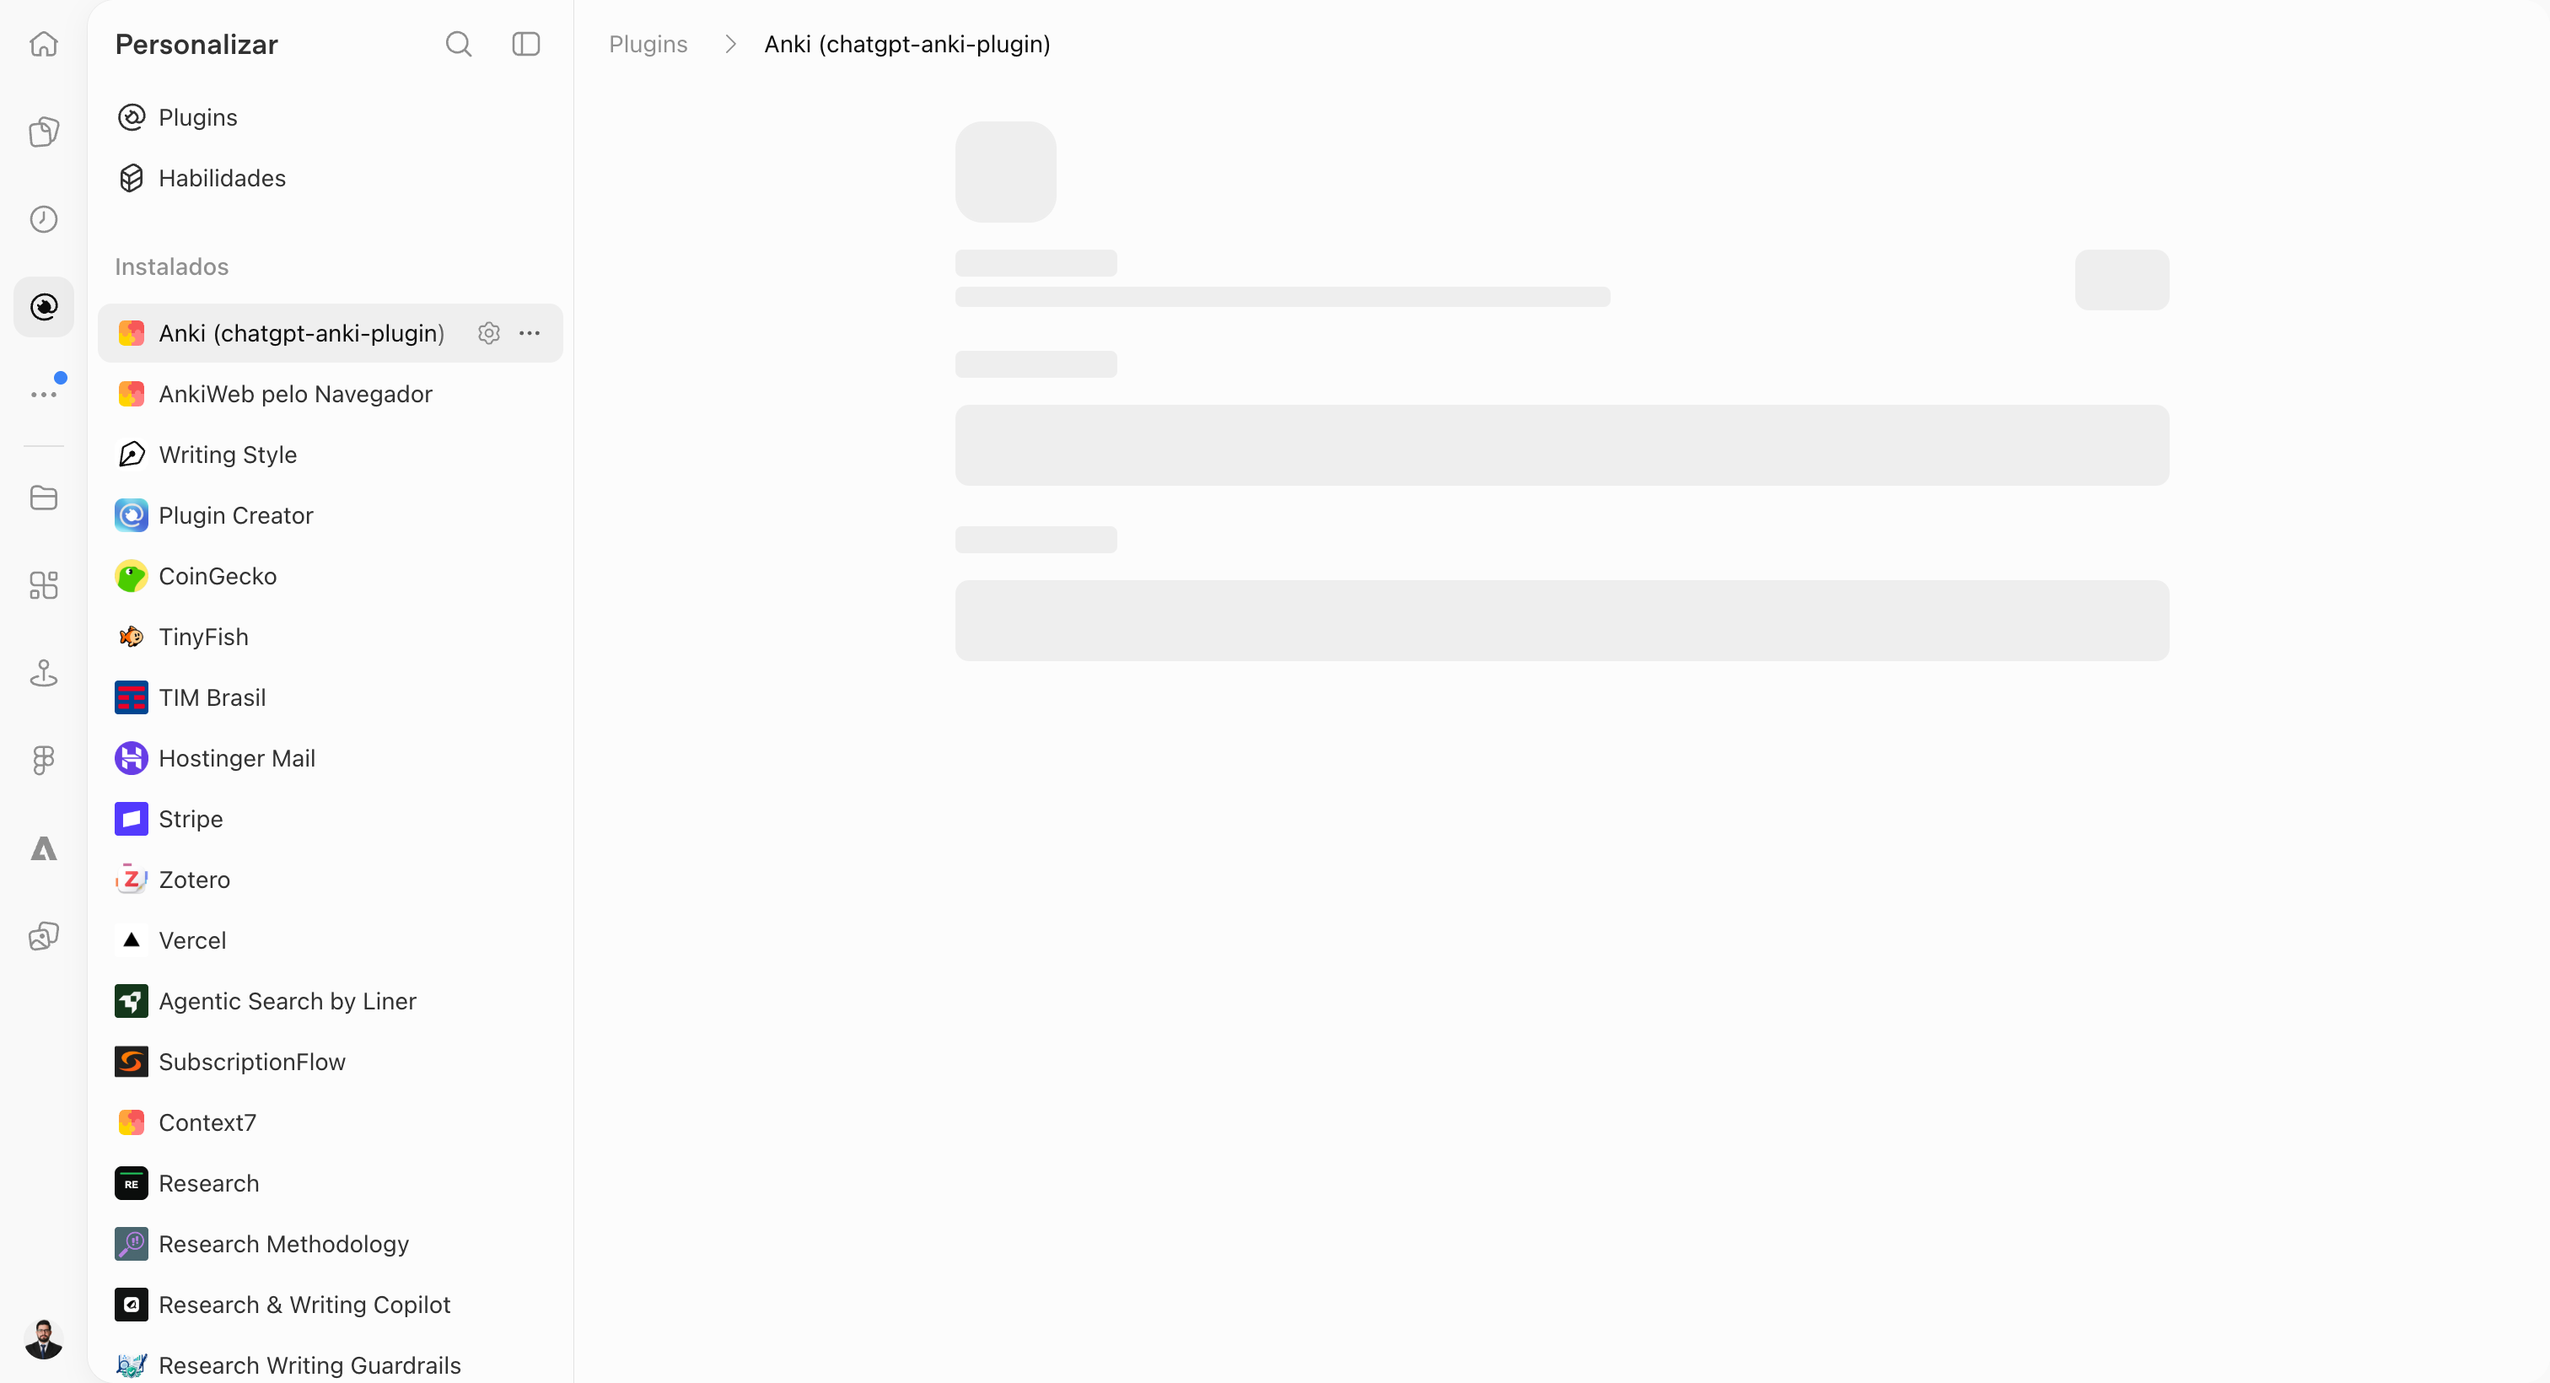
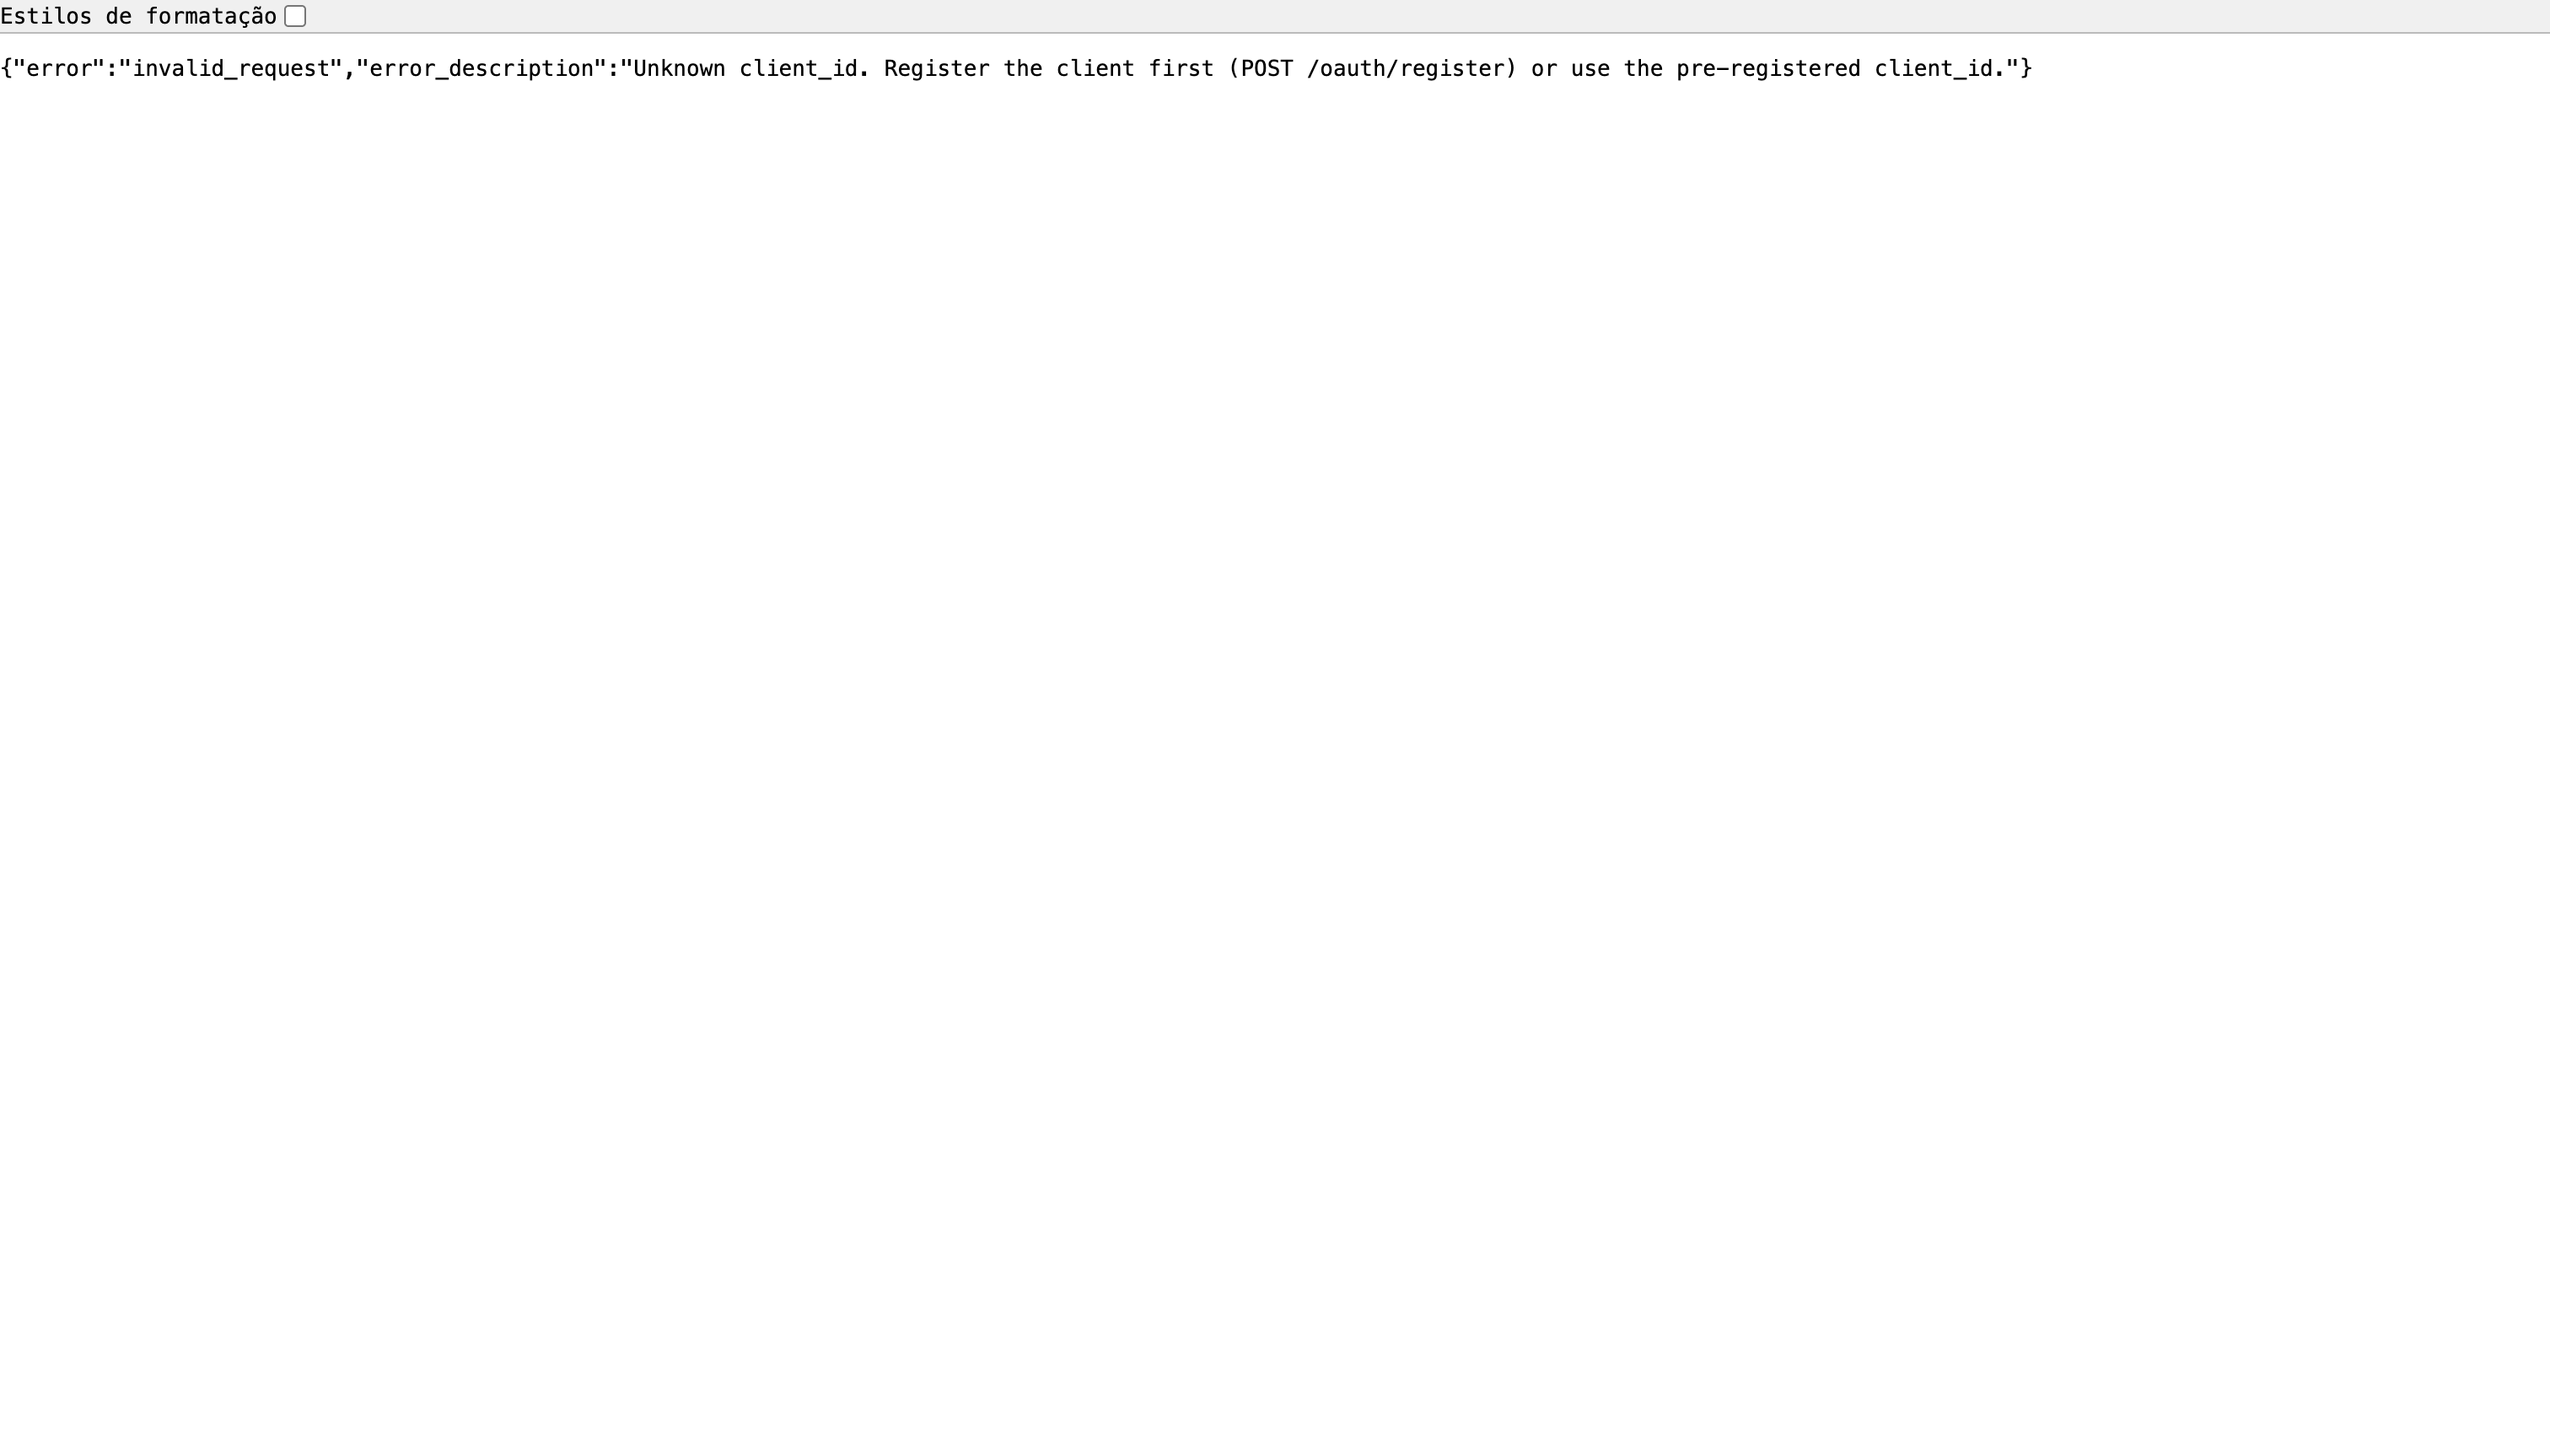
fix(oauth): legacy client-id compatibility within redirect policy; accurate consent detection

diff --git a/tests/unit/oauth.test.ts b/tests/unit/oauth.test.ts
@@ -60,12 +60,26 @@ describe('OAuthService.validateAuthorize', () => {
     if (result.ok) expect(result.scope).toEqual(['anki:read', 'anki:write', 'anki:review']);
   });
 
-  it('rejects unknown clients without a redirect target', () => {
+  it('unknown clients are only accepted within the redirect policy (legacy compat)', () => {
     const result = service().validateAuthorize(validParams(service()).params);
-    const unknown = service().validateAuthorize({ ...validParams(service()).params, client_id: 'nope' });
     expect(result.ok).toBe(true);
-    expect(unknown.ok).toBe(false);
-    if (!unknown.ok) expect(unknown.redirectUri).toBeUndefined();
+
+    // Cliente desconhecido + redirect fora da política ⇒ rejeitado, sem redirect de erro.
+    const outsidePolicy = service().validateAuthorize({
+      ...validParams(service()).params,
+      client_id: 'nope',
+      redirect_uri: 'https://evil.example.com/cb',
+    });
+    expect(outsidePolicy.ok).toBe(false);
+    if (!outsidePolicy.ok) expect(outsidePolicy.redirectUri).toBeUndefined();
+
+    // Cliente desconhecido (legado) + redirect hospedado no ChatGPT ⇒ aceito.
+    const withinPolicy = service().validateAuthorize({
+      ...validParams(service()).params,
+      client_id: 'nope',
+      redirect_uri: 'https://chatgpt.com/connector/oauth/x',
+    });
+    expect(withinPolicy.ok).toBe(true);
   });
 
   it('rejects unregistered redirect_uri', () => {
@@ -238,6 +252,28 @@ describe('OAuthService dynamic client registration', () => {
     // Segredo diferente (outra instalação) rejeita o id.
     const otherSecret = service({ signingSecret: 'another-signing-secret-0123456789ab' });
     expect(otherSecret.getClient(client.clientId)).toBeUndefined();
+  });
+
+  it('accepts legacy unknown client ids when the redirect is within policy (post-fix compatibility)', () => {
+    const svc = service();
+    const { params } = validParams(svc);
+
+    const legacyChatGpt = svc.validateAuthorize({
+      ...params,
+      client_id: 'mcp-0123456789abcdef01234567',
+      redirect_uri: 'https://chatgpt.com/connector/oauth/legacy',
+    });
+    expect(legacyChatGpt.ok).toBe(true);
+
+    const legacyAllowlisted = svc.validateAuthorize({ ...params, client_id: 'mcp-legacy', redirect_uri: ALLOWED });
+    expect(legacyAllowlisted.ok).toBe(true);
+
+    const legacyEvil = svc.validateAuthorize({
+      ...params,
+      client_id: 'mcp-legacy',
+      redirect_uri: 'https://evil.example.com/cb',
+    });
+    expect(legacyEvil.ok).toBe(false);
   });
 
   it('dynamic clients accept ChatGPT-hosted redirects at authorize; env client stays strict', () => {

diff --git a/src/mcp/auth/oauth.ts b/src/mcp/auth/oauth.ts
@@ -224,9 +224,36 @@ export class OAuthService {
     }
   }
 
+  /**
+   * Compatibilidade pós-fix (2026-10-11): client ids registrados ANTES dos ids
+   * assinados (ou perdidos num restart) não existem mais no servidor. Como o
+   * DCR é aberto, o registro NÃO é uma fronteira de segurança — a fronteira é a
+   * política de redirect (allowlist exata ou callback hospedado em
+   * chatgpt.com). Aceitamos client ids legados apenas dentro dessa política;
+   * PKCE continua obrigatório e o code fica vinculado ao clientId informado.
+   */
+  private synthesizeLegacyClient(
+    clientId: string | undefined,
+    redirectUri: string | undefined,
+  ): OAuthClientRecord | undefined {
+    if (!clientId || typeof redirectUri !== 'string') return undefined;
+    const allowed =
+      this.options.allowedRedirectUris.includes(redirectUri) || isChatGptHostedRedirect(redirectUri);
+    if (!allowed) return undefined;
+    return {
+      clientId,
+      redirectUris: [],
+      tokenEndpointAuthMethod: 'none',
+      createdAt: this.now(),
+      dynamic: true,
+    };
+  }
+
   validateAuthorize(params: AuthorizeParams): AuthorizeValidation {
-    const client = this.getClient(params.client_id);
     const state = params.state;
+    const requestedRedirect = typeof params.redirect_uri === 'string' ? params.redirect_uri : undefined;
+    const client =
+      this.getClient(params.client_id) ?? this.synthesizeLegacyClient(params.client_id, requestedRedirect);
     if (!client) {
       return {
         ok: false,
@@ -245,6 +272,7 @@ export class OAuthService {
     const redirectUri = params.redirect_uri;
     const redirectAllowed =
       client.redirectUris.includes(redirectUri) ||
+      this.options.allowedRedirectUris.includes(redirectUri) ||
       (client.dynamic === true && isChatGptHostedRedirect(redirectUri));
     if (!redirectAllowed) {
       return {

diff --git a/tests/integration/auth.test.ts b/tests/integration/auth.test.ts
@@ -201,6 +201,7 @@ describe('MCP endpoint authentication (C7)', () => {
     expect(refresh.status).toBe(400);
     expect(await refresh.text()).toContain('unsupported_grant_type');
 
+    // Cliente desconhecido (legado) no token endpoint: o code inválido é rejeitado (400 invalid_grant).
     const unknownClient = await fetch(`${app.baseUrl}/oauth/token`, {
       method: 'POST',
       headers: { 'content-type': 'application/x-www-form-urlencoded' },
@@ -212,7 +213,8 @@ describe('MCP endpoint authentication (C7)', () => {
         code_verifier: 'x',
       }),
     });
-    expect(unknownClient.status).toBe(401);
+    expect(unknownClient.status).toBe(400);
+    expect(await unknownClient.text()).toContain('invalid_grant');
   });
 
   it('supports dynamic client registration end to end', async () => {

diff --git a/src/app.ts b/src/app.ts
@@ -268,9 +268,10 @@ export async function createApp(deps: CreateAppDeps): Promise<App> {
     }
     const client = deps.oauth.getClient(clientId);
     if (!client) {
-      return oauthErrorResponse(res, new OAuthError('invalid_client', 'Unknown client_id.', 401));
-    }
-    if (client.clientSecret) {
+      // Cliente legado (pré-ids-assinados): o code + PKCE são as credenciais; o
+      // exchangeCode valida o vínculo com o clientId. Observabilidade:
+      logger.warn('oauth_legacy_client_token_exchange', { client_id_prefix: clientId.slice(0, 12) });
+    } else if (client.clientSecret) {
       const provided = form.get('client_secret');
       if (provided !== client.clientSecret) {
         return oauthErrorResponse(res, new OAuthError('invalid_client', 'Invalid client_secret.', 401));
